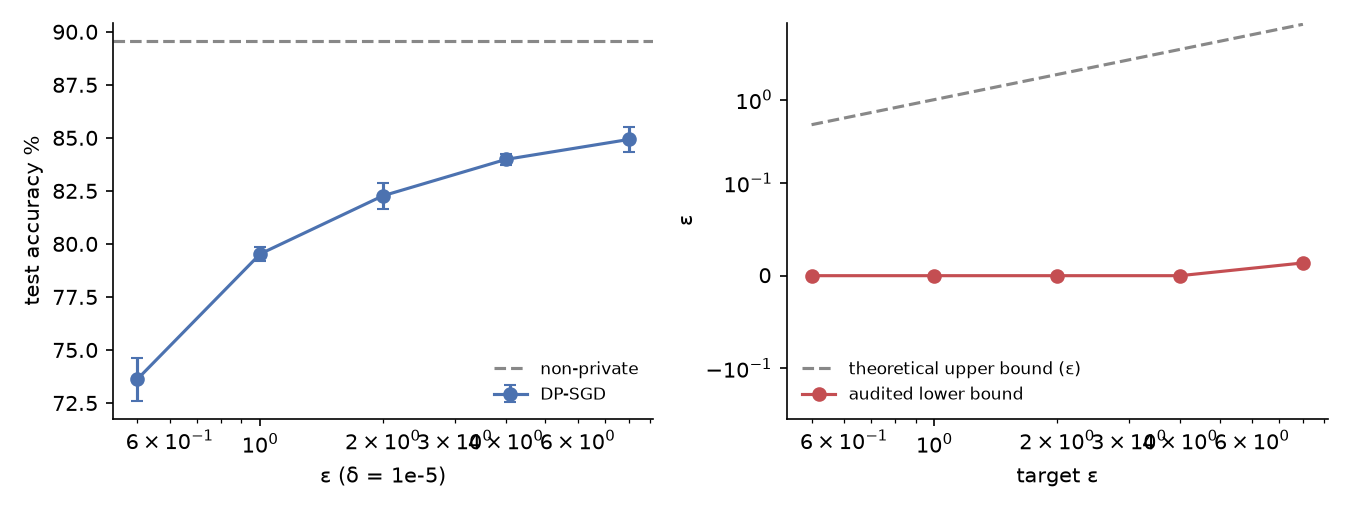
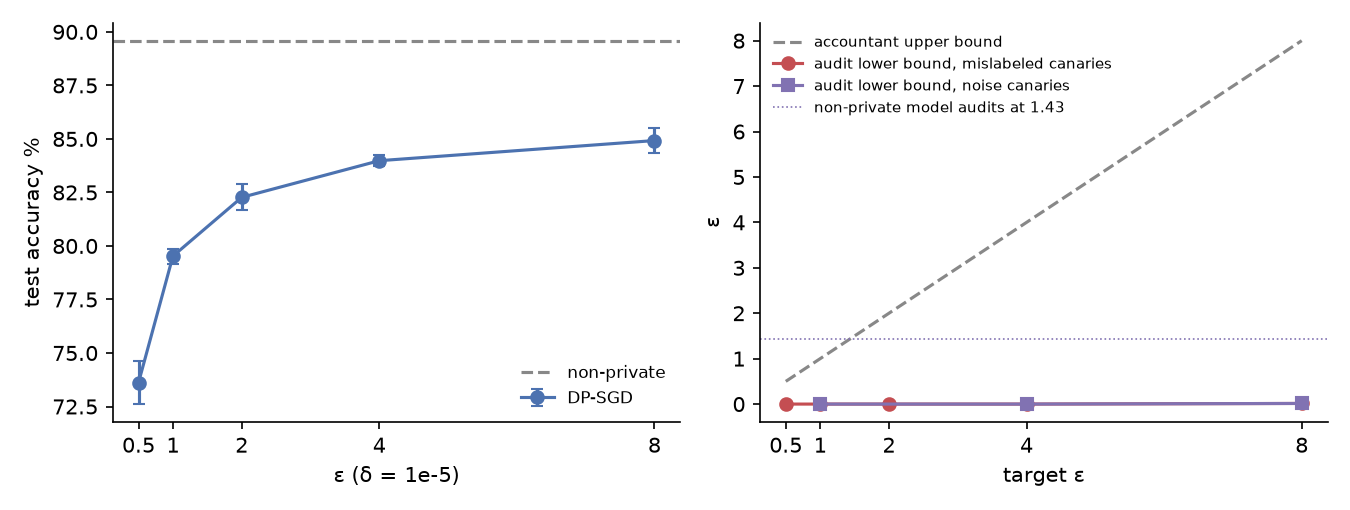
README, deep dive, CLI, Makefile, CI

diff --git a/src/dpaudit/cli.py b/src/dpaudit/cli.py
@@ -1,0 +1,46 @@
+"""dpaudit CLI.
+
+    dpaudit epsilon --q 0.0047 --sigma 0.87 --steps 2129      # accountant
+    dpaudit sigma --eps 2 --q 0.0047 --steps 2129              # calibrate noise
+    dpaudit lower-bound --guesses 200 --correct 140            # audit bound from guesses
+"""
+
+from __future__ import annotations
+
+import argparse
+
+from .accountant import calibrate_sigma, epsilon
+from .audit import eps_lower_bound
+
+
+def main(argv: list[str] | None = None) -> int:
+    ap = argparse.ArgumentParser(prog="dpaudit")
+    sub = ap.add_subparsers(dest="cmd", required=True)
+    e = sub.add_parser("epsilon")
+    s = sub.add_parser("sigma")
+    for p in (e, s):
+        p.add_argument("--q", type=float, required=True)
+        p.add_argument("--steps", type=int, required=True)
+        p.add_argument("--delta", type=float, default=1e-5)
+    e.add_argument("--sigma", type=float, required=True)
+    s.add_argument("--eps", type=float, required=True)
+    lb = sub.add_parser("lower-bound")
+    lb.add_argument("--guesses", type=int, required=True)
+    lb.add_argument("--correct", type=int, required=True)
+    lb.add_argument("--beta", type=float, default=0.05)
+    a = ap.parse_args(argv)
+    if a.cmd == "epsilon":
+        eps, order = epsilon(a.q, a.sigma, a.steps, a.delta)
+        print(f"epsilon = {eps:.4f} at delta = {a.delta:g} (best RDP order {order})")
+    elif a.cmd == "sigma":
+        sig = calibrate_sigma(a.eps, a.q, a.steps, a.delta)
+        print(f"noise multiplier sigma = {sig:.4f} for epsilon <= {a.eps:g}")
+    else:
+        v = eps_lower_bound(a.guesses, a.correct, a.beta)
+        print(f"{a.correct}/{a.guesses} correct -> epsilon >= {v:.3f} "
+              f"with confidence {1 - a.beta:.0%}")
+    return 0
+
+
+if __name__ == "__main__":
+    raise SystemExit(main())

diff --git a/scripts/make_tables.py b/scripts/make_tables.py
@@ -76,18 +76,26 @@ axes[0].errorbar(xs, acc[:, 0], yerr=acc[:, 1], marker="o", capsize=3, color="#4
 if math.inf in by:
     a_inf = ci([100 * r["accuracy"] for r in by[math.inf]])[0]
     axes[0].axhline(a_inf, ls="--", color="#888", label="non-private")
-axes[0].set_xscale("log")
 axes[0].set_xlabel("ε (δ = 1e-5)")
 axes[0].set_ylabel("test accuracy %")
 axes[0].legend(frameon=False, fontsize=8)
 lb = np.array([np.mean([r["audit"]["eps_lower"] for r in by[e]]) for e in fin])
-axes[1].plot(xs, xs, "--", color="#888", label="theoretical upper bound (ε)")
-axes[1].plot(xs, lb, "o-", color="#C44E52", label="audited lower bound")
-axes[1].set_xscale("log")
-axes[1].set_yscale("symlog", linthresh=0.1)
+axes[1].plot(xs, xs, "--", color="#888", label="accountant upper bound")
+axes[1].plot(xs, lb, "o-", color="#C44E52", label="audit lower bound, mislabeled canaries")
+if noise:
+    nz = sorted((r["target_eps"], r["audit"]["eps_lower"]) for r in noise
+                if not math.isinf(r["target_eps"]))
+    axes[1].plot([a for a, _ in nz], [b for _, b in nz], "s-", color="#8172B2",
+                 label="audit lower bound, noise canaries")
+    inf_n = [r["audit"]["eps_lower"] for r in noise if math.isinf(r["target_eps"])]
+    if inf_n:
+        axes[1].axhline(inf_n[0], color="#8172B2", lw=0.8, ls=":",
+                        label=f"non-private model audits at {inf_n[0]:.2f}")
 axes[1].set_xlabel("target ε")
 axes[1].set_ylabel("ε")
-axes[1].legend(frameon=False, fontsize=8)
+axes[1].legend(frameon=False, fontsize=7)
+for ax in axes:
+    ax.set_xticks(xs, [f"{v:g}" for v in xs])
 for ax in axes:
     ax.spines[["top", "right"]].set_visible(False)
 fig.tight_layout()

diff --git a/README.md b/README.md
@@ -1,1 +1,156 @@
 # dpaudit
+
+DP-SGD written from scratch with a Rényi-DP accountant that matches Opacus to 1e-8. It measures privacy–utility curves, and it audits the trained models empirically with membership inference and one-training-run canary audits, comparing the provable upper bound on ε with what an attacker can demonstrate.
+
+[![ci](https://github.com/eshaan2418/dpaudit/actions/workflows/ci.yml/badge.svg)](https://github.com/eshaan2418/dpaudit/actions/workflows/ci.yml)
+[![license: MIT](https://img.shields.io/badge/license-MIT-blue.svg)](LICENSE)
+![python 3.11+](https://img.shields.io/badge/python-3.11%2B-blue.svg)
+
+## Headline result
+
+Fashion-MNIST, a tanh CNN with 26k parameters, 10 epochs, δ = 1e-5. Values are mean ± 95% CI over 3 seeds.
+
+| ε (accountant upper bound) | σ | test accuracy | loss-threshold MIA AUC | audited ε lower bound (1,000 canaries, one run) |
+|---|---|---|---|---|
+| 0.5 | 1.84 | 73.6 ± 1.0% | 0.507 ± 0.005 | 0.00 |
+| 1 | 1.18 | 79.5 ± 0.3% | 0.505 ± 0.003 | 0.00 |
+| 2 | 0.87 | 82.3 ± 0.6% | 0.506 ± 0.003 | 0.00 |
+| 4 | 0.69 | 84.0 ± 0.2% | 0.507 ± 0.003 | 0.00 |
+| 8 | 0.56 | 84.9 ± 0.6% | 0.507 ± 0.004 | 0.01 |
+| ∞ (no DP) | - | 89.6 ± 0.2% | 0.513 ± 0.002 | **0.50** (mislabeled canaries) / **1.43** (noise canaries) |
+
+Going from no privacy to ε = 8 costs 4.7 accuracy points, and ε = 1 costs 10.1. The black-box audit clearly detects memorisation in the non-private model: noise-image canaries certify ε ≥ 1.43 at 95% confidence. Against every DP-SGD model it demonstrates essentially nothing (ε ≥ 0.01 at best). That is consistent with the guarantee, and it shows how loose black-box, single-run audits are next to the accountant's worst-case bound.
+
+![privacy-utility curve and audit](eval/plots/privacy_utility_audit.png)
+
+## Demo
+
+```
+$ dpaudit sigma --eps 2 --q 0.004695 --steps 2129
+noise multiplier sigma = 0.8710 for epsilon <= 2
+$ dpaudit epsilon --q 0.004695 --sigma 0.871 --steps 2129
+epsilon = 1.9976 at delta = 1e-05 (best RDP order 7)
+$ dpaudit lower-bound --guesses 200 --correct 174
+174/200 correct -> epsilon >= 1.432 with confidence 95%
+```
+
+(The last line is the non-private model's audit: 174 of 200 confident guesses about which noise canaries were in its training set were right.)
+
+## Why this exists
+
+Differential privacy guarantees are only as good as the implementation and the accountant. A clipping bug, a sampling mismatch (fixed-size batches analysed as Poisson), or an accountant error silently invalidates the stated ε. Empirical audits are the practical check. If an attack demonstrates a larger ε than claimed, something is wrong. This repo implements the whole chain in readable code (per-example clipping, noise, Poisson sampling, RDP accounting, and two audits), verifies the accountant against Opacus, and reports both the utility cost and the gap between proven and demonstrated privacy loss.
+
+## Highlights
+
+- **About 135 lines of DP-SGD** using `torch.func.vmap(grad(...))` per-example gradients, global per-example clipping, Gaussian noise, and Poisson sampling with expected-batch-size normalisation, the setting the accountant assumes.
+- **An RDP accountant from first principles** (exact binomial expansion for integer orders and the improved RDP→DP conversion). A Hypothesis property test against Opacus over random (q, σ, T) agrees within 1e-8, and it reproduces the classic Abadi et al. setting (q=0.01, σ=1.1, 10k steps → ε=5.65).
+- **One-run audits** (Steinke, Nasr, Jagielski 2023): 1,000 canaries, each included with probability ½, with ε lower bounds from binomial tails at 95% confidence and Bonferroni correction over abstention levels.
+- **A canary-type ablation.** Out-of-distribution noise canaries roughly triple the non-private audit (1.43 vs 0.50) and still find nothing under DP.
+- **A sensitivity test:** removing one example changes a noise-free DP-SGD step by at most 2C/N, verified numerically.
+
+## Quick start
+
+```bash
+git clone https://github.com/eshaan2418/dpaudit && cd dpaudit
+make setup     # uv venv: torch (CPU), scipy; opacus only for the accountant cross-check
+make test      # accountant vs Opacus, calibration, clipping sensitivity, AUC, audit bound
+make data      # Fashion-MNIST (checksum-verified)
+make train     # learning-rate tuning on validation + 18 main runs + canary ablation (~1.5 h CPU)
+make plots
+make demo
+```
+
+## Method
+
+```mermaid
+flowchart LR
+  D[55k training images + 1,000 canaries, each kept w.p. 1/2] --> P[Poisson sample, rate q]
+  P --> G[per-example grads: vmap grad]
+  G --> C[clip each to L2 <= C]
+  C --> N[sum + N 0, sigma^2 C^2]
+  N --> U[divide by qN, momentum SGD]
+  U --> M[model]
+  A[RDP accountant: sigma calibrated so epsilon_T <= target] --> N
+  M --> MIA[loss-threshold MIA: members vs test set]
+  M --> AUD[canary losses -> guess IN/OUT -> binomial lower bound on epsilon]
+```
+
+Per step, the subsampled Gaussian mechanism has RDP `ε_α = log Σ_k C(α,k)(1−q)^{α−k} q^k e^{(k²−k)/(2σ²)} / (α−1)`. Over T steps, `ε = min_α Tε_α + log((α−1)/α) − (log δ + log α)/(α−1)`. The audit turns `v` correct out of `r` guesses into the largest ε with `P[Bin(r, e^ε/(1+e^ε)) ≥ v] ≤ 0.05`. Details: [docs/DESIGN.md](docs/DESIGN.md).
+
+## Results
+
+Hardware: Apple M5 CPU, 4 threads per run. Software: PyTorch 2.14.1, SciPy, Opacus 1.6.0 (accountant check only). Hyperparameters: expected batch 256 (q = 256/n), 10 epochs (2,129 steps), clip norm C = 1, momentum 0.9, cosine LR decay. Learning rates were chosen on the 5k validation split with 3-epoch runs: DP-SGD 0.25 (grid 0.125–4), non-private SGD 0.1 (grid 0.02–0.2). Raw per-run JSON is in `eval/results/`, and tables are generated by `scripts/make_tables.py` into [eval/results/tables.md](eval/results/tables.md).
+
+### Full results (3 seeds)
+
+| target ε | achieved ε | σ | test acc % | MIA AUC | MIA TPR @ 0.1% FPR | canary AUC | ε lower bound per seed |
+|---|---|---|---|---|---|---|---|
+| 0.5 | 0.500 | 1.843 | 73.6 ± 1.0 | 0.507 ± 0.005 | 0.14 ± 0.32% | 0.513 ± 0.051 | 0.00, 0.00, 0.00 |
+| 1 | 0.999 | 1.180 | 79.5 ± 0.3 | 0.505 ± 0.003 | 0.07 ± 0.11% | 0.521 ± 0.034 | 0.00, 0.00, 0.00 |
+| 2 | 1.998 | 0.871 | 82.3 ± 0.6 | 0.506 ± 0.003 | 0.11 ± 0.22% | 0.520 ± 0.031 | 0.00, 0.00, 0.00 |
+| 4 | 3.993 | 0.692 | 84.0 ± 0.2 | 0.507 ± 0.003 | 0.09 ± 0.09% | 0.529 ± 0.019 | 0.00, 0.00, 0.00 |
+| 8 | 7.992 | 0.560 | 84.9 ± 0.6 | 0.507 ± 0.004 | 0.10 ± 0.07% | 0.532 ± 0.018 | 0.00, 0.04, 0.00 |
+| ∞ | - | - | 89.6 ± 0.2 | 0.513 ± 0.002 | 0.11 ± 0.14% | 0.632 ± 0.014 | 0.44, 0.43, 0.62 |
+
+### Canary type (seed 0)
+
+| target ε | mislabeled canaries: AUC / ε lower bound | noise canaries: AUC / ε lower bound |
+|---|---|---|
+| 1 | 0.506 / 0.00 | 0.506 / 0.00 |
+| 4 | 0.530 / 0.00 | 0.540 / 0.00 |
+| 8 | 0.528 / 0.00 | 0.536 / 0.01 |
+| ∞ | 0.628 / 0.44 | 0.710 / 1.43 |
+
+Compute used: 90 CPU-process minutes (4 threads each), including tuning and the ablation.
+
+## Error analysis
+
+- **The loss-threshold attack is near chance even without DP (AUC 0.513).** A 26k-parameter model trained for 10 epochs on 55k images barely overfits: its train/test losses are close, so average-case membership signal is tiny. This attack measures average leakage. DP bounds the worst case, which the canaries probe.
+- **Canaries reveal what the MIA cannot.** Mislabeled examples have to be memorised to be fit, so without DP their inclusion is visible (canary AUC 0.63, noise canaries 0.71). Under DP-SGD at ε ≤ 8, canary AUC stays at 0.51–0.54, and the audit certifies ε ≈ 0.
+- **Why the lower bounds are so far below the upper bounds.** (1) It is black-box: the auditor sees only final losses, not the gradient-level signal the accountant bounds. (2) A single run: 1,000 canaries give at most a few hundred guesses, and a binomial tail at 95% confidence needs a large accuracy excess to certify much. (3) Canaries are input-space examples, not worst-case gradient ("Dirac") canaries, so clipping and noise drown them. The DP analysis is worst-case over all datasets and all outputs. This audit tests one realistic attacker.
+- **Clipping is active:** 35–54% of per-example gradients exceed C = 1 (the fraction is higher at lower ε). Clipping is part of why canaries cannot be memorised.
+
+## Design decisions and trade-offs
+
+- **Poisson sampling and division by the expected batch size,** rather than shuffled fixed-size batches. That is what the subsampled-Gaussian RDP analysis covers. Fixed-size batches analysed as Poisson is a common, subtle accounting error.
+- **Integer RDP orders 2–256.** This allows the exact binomial expansion with no numerical integration, at a small cost in tightness compared with fractional orders.
+- **Tanh CNN, not ReLU,** following Papernot et al. (2021). Bounded activations keep per-example gradient norms more uniform under clipping.
+- **One-run audit, not many-run.** It costs one training run per configuration instead of hundreds, at the price of much looser bounds.
+
+## Limitations, risks and ethical considerations
+
+- **Hyperparameter search is not privacy-accounted.** The learning rate was tuned on a validation split drawn from the private training images (10 tuning runs). Strictly, the reported ε covers only the final run, as is common but not rigorous practice. A rigorous release would account for the tuning (e.g. with the private hyperparameter selection of Papernot and Steinke, 2022) or tune on public data.
+- The audit lower bounds are δ = 0-form binomial bounds. Their δ correction is negligible at δ = 1e-5, but strictly they are bounds for the δ = 0 analysis. A zero lower bound means "this attacker found nothing", not "the model is private". The privacy guarantee comes only from the accountant and a correct implementation.
+- One dataset and one model size. Larger models memorise more and audit tighter.
+- See [MODEL_CARD.md](MODEL_CARD.md) and [DATA_CARD.md](DATA_CARD.md).
+
+## Project structure
+
+```
+src/dpaudit/
+  accountant.py   RDP of the subsampled Gaussian, RDP -> (epsilon, delta), sigma calibration
+  dpsgd.py        DP-SGD training loop (vmap per-example grads), SmallCNN, MLP
+  audit.py        ROC AUC, TPR@FPR, one-run audit and its epsilon lower bound
+  data.py         Fashion-MNIST loader with checksums
+  cli.py          `dpaudit epsilon | sigma | lower-bound`
+scripts/          experiment.py (one run: train + MIA + audit), tune.sh, run_all.sh, make_tables.py
+tests/            accountant vs Opacus, calibration, sensitivity, AUC, audit-bound tests
+```
+
+## Citations
+
+- Abadi, M. et al. *Deep Learning with Differential Privacy.* CCS 2016.
+- Papernot, N. and Steinke, T. *Hyperparameter Tuning with Renyi Differential Privacy.* ICLR 2022.
+- Mironov, I. *Rényi Differential Privacy.* CSF 2017.
+- Mironov, I., Talwar, K. and Zhang, L. *Rényi Differential Privacy of the Sampled Gaussian Mechanism.* arXiv:1908.10530, 2019.
+- Balle, B. et al. *Hypothesis Testing Interpretations and Rényi Differential Privacy.* AISTATS 2020.
+- Steinke, T., Nasr, M. and Jagielski, M. *Privacy Auditing with One (1) Training Run.* NeurIPS 2023.
+- Jagielski, M., Ullman, J. and Oprea, A. *Auditing Differentially Private Machine Learning: How Private is Private SGD?* NeurIPS 2020.
+- Yeom, S. et al. *Privacy Risk in Machine Learning: Analyzing the Connection to Overfitting.* CSF 2018.
+- Papernot, N. et al. *Tempered Sigmoid Activations for Deep Learning with Differential Privacy.* AAAI 2021.
+- Yousefpour, A. et al. *Opacus: User-Friendly Differential Privacy Library in PyTorch.* arXiv:2109.12298, 2021.
+- Xiao, H., Rasul, K. and Vollgraf, R. *Fashion-MNIST.* arXiv:1708.07747, 2017.
+
+## License
+
+MIT. See [LICENSE](LICENSE).

diff --git a/docs/DEEP_DIVE.md b/docs/DEEP_DIVE.md
@@ -1,0 +1,37 @@
+# Deep dive: questions and answers
+
+### 1. What does ε = 2 actually promise here?
+For any two training sets that differ in one example, the distribution of trained models differs by at most a factor of e² ≈ 7.4 on any event, with an additive slack δ = 1e-5. That holds if the implementation matches the analysis: Poisson sampling at rate q, per-example clipping to C, Gaussian noise σC, 2,129 steps. It is a worst case over all datasets, all possible outputs, and an attacker who sees the final model (and in fact all intermediate models).
+
+### 2. How do you know the accountant is right?
+It is implemented from the formula (exact binomial expansion of the subsampled Gaussian's RDP at integer orders, then the Balle et al. 2020 conversion) and checked three ways. A Hypothesis property test against Opacus over random (q, σ, T) agrees within 1e-8 relative. The known Abadi et al. setting gives ε = 5.65. The full-batch case reduces to the Gaussian mechanism's RDP α/(2σ²). The calibrated σ also lands within 0.01 of the target ε (achieved ε 0.500, 0.999, 1.998, 3.993, 7.992).
+
+### 3. Why Poisson sampling and division by the *expected* batch size?
+The RDP bound used is for the Poisson-subsampled Gaussian mechanism. If you instead shuffle into fixed-size batches, or divide by the realised batch size, you are running a different mechanism. Dividing by the realised size makes the update's scale depend on how many examples were sampled, which is itself data-dependent. Many implementations analysed as Poisson actually use fixed batches, and that is a real accounting error. Here the code matches the analysis.
+
+### 4. What does the sensitivity test check?
+With noise turned off, it trains on two neighbouring datasets (one example removed) for one full-batch step, and checks that the parameter difference is at most 2C·lr/N. This is the exact bound for one step with mean normalisation. A bug in per-example clipping (for example clipping per parameter tensor instead of globally, or clipping after summing) would break it.
+
+### 5. Why is the loss-threshold MIA at chance even for the non-private model?
+The model is small (26k parameters) and trained for 10 epochs on 55k images. Its training and test loss distributions overlap almost completely, so a threshold on loss barely separates members from non-members (AUC 0.513). This attack measures average-case leakage, which is low for a well-generalising model. DP is a worst-case guarantee, which is why canaries (examples that are hard to fit without memorising) are the meaningful probe.
+
+### 6. How does the one-run audit turn guesses into a lower bound?
+Each canary's inclusion is an independent fair coin. Under ε-DP, conditioning on everything else, any guess about one canary's bit is correct with probability at most e^ε/(1+e^ε). Steinke et al. show this holds jointly enough that the number of correct guesses among r is dominated by Binomial(r, e^ε/(1+e^ε)). If v correct guesses would be very unlikely (p ≤ 0.05) under some ε, that ε is ruled out. The largest such ε is the lower bound. Abstaining on uncertain canaries raises accuracy on the guesses that are made, and I try 4 abstention levels with Bonferroni correction.
+
+### 7. Why are the audited bounds ~0 when the accountant says up to 8?
+Three reasons. The audit is black-box: it only sees final losses. The accountant bounds an attacker who sees every noisy gradient. The canaries are natural input-space examples whose gradients get clipped and swamped by noise, not crafted gradient canaries. And one run with 1,000 canaries gives at most ~200 confident guesses, so certifying ε = 1 needs about 73% guess accuracy, while canary AUC under DP is 0.51–0.54. The gap is expected. Published black-box one-run audits are similarly loose, while white-box audits with gradient canaries approach the theoretical bound.
+
+### 8. Then what is the audit good for?
+Detecting broken implementations, and showing the attack has power. On the non-private model the same audit certifies ε ≥ 1.43 with noise canaries (174/200 correct guesses), so the method does detect memorisation. If a DP-SGD implementation ever audited above its claimed ε, it would be proof of a bug. Here none do.
+
+### 9. Why did noise canaries beat mislabeled canaries?
+A mislabeled real image still resembles its true class, so the model's loss on the wrong label is high whether or not it was trained on it, and only partly reduced by training on it. An i.i.d. noise image is out of distribution, so nothing else in the data predicts its label, and membership determines the loss much more directly. Non-private canary AUC is 0.71 vs 0.63, and the lower bound 1.43 vs 0.50.
+
+### 10. What is the utility cost, and how does it scale?
+Accuracy goes from 89.6% non-private to 84.9% (ε = 8), 82.3% (ε = 2), and 73.6% (ε = 0.5). Gains flatten above ε ≈ 4. The cost comes from two sources: clipping (biased gradients, with 35–54% of examples clipped) and noise (σ from 0.56 to 1.84). Larger datasets help directly, because noise is added to a sum over qN examples and so its relative size shrinks as N grows.
+
+### 11. What is not accounted for?
+Hyperparameter tuning: 10 short runs on a validation split carved from the private data chose the learning rates. Rigorous practice would use public data for tuning or account for the selection (e.g. Papernot & Steinke 2022). The audit lower bounds also use the δ = 0 form of the binomial bound.
+
+### 12. With 100x compute?
+White-box audits with gradient-space (Dirac) canaries and many training runs, to see how close empirical ε gets to the accountant. Larger models and longer training, where memorisation and so audit power increase. Privacy-accounted hyperparameter selection. And a comparison of RDP against PRV/numerical accountants (Gopi et al. 2021), which give tighter ε for the same σ.
